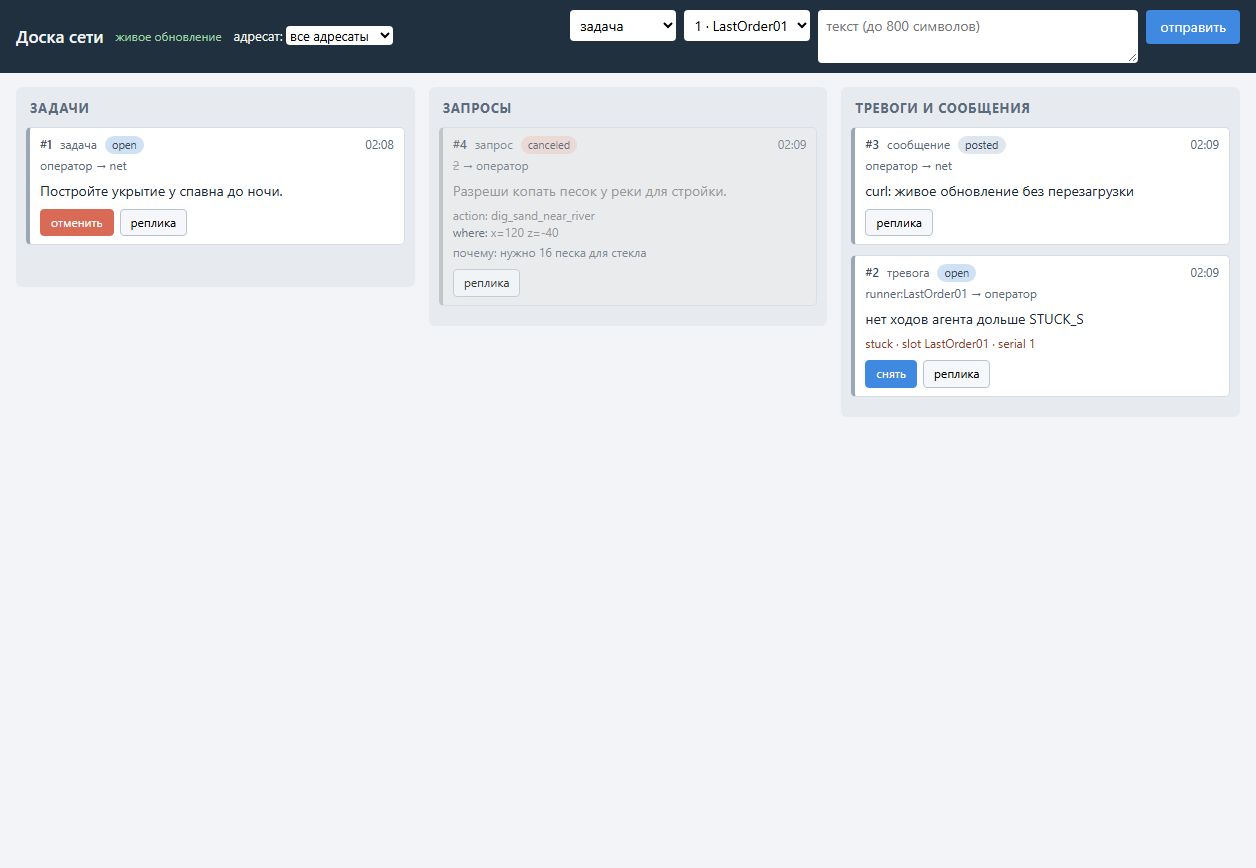
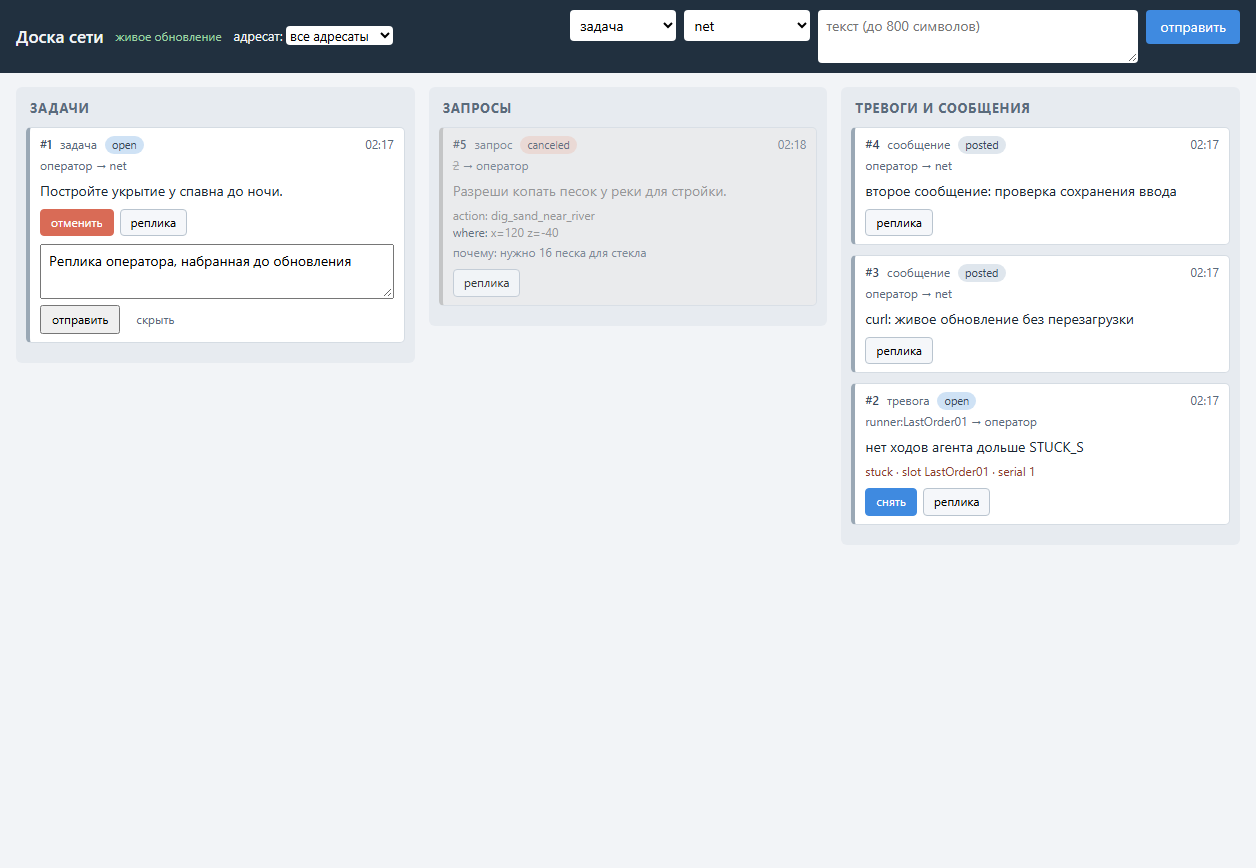
T-049: review fixes — keep operator input across refreshes, byte-wise key compare
- R1-1: buildAddressees preserves the chosen addressee across SSE/liveness
  re-renders (same pattern as the filter); the retarget-on-type race is gone.
- R1-2: render() carries open inline forms into the fresh cards — moving the
  DOM node keeps the typed text — and actionsRow adopts the carried form as
  its open one; verified on the stand (typed reply alive after two refreshes).
- R1-3: the Basic password and X-Operator-Key compare over utf-8 bytes, so a
  non-ASCII stand key answers a calm 401 instead of a 500; new test.

Agent: zcode

diff --git a/runtime/hive/static/board.js b/runtime/hive/static/board.js
@@ -148,6 +148,14 @@ function watchLiveness() {
 // --- render -----------------------------------------------------------------------------
 
 function render() {
+  // An update must not eat the operator's open inline forms: the typed deny reason,
+  // a needs_input answer, edited args. The form elements are carried into the fresh
+  // cards (moving a DOM node keeps its textarea state).
+  const openForms = new Map();
+  for (const form of document.querySelectorAll(".entry .inline-form")) {
+    const card = form.closest(".entry");
+    if (card) openForms.set(Number(card.dataset.id), form);
+  }
   buildFilter();
   buildAddressees();
   const columns = { task: [], request: [], info: [] };
@@ -157,20 +165,21 @@ function render() {
     else if (entry.kind === "request") columns.request.push(entry);
     else columns.info.push(entry);
   }
-  fillColumn("col-task", columns.task);
-  fillColumn("col-request", columns.request);
-  fillColumn("col-info", columns.info);
+  fillColumn("col-task", columns.task, openForms);
+  fillColumn("col-request", columns.request, openForms);
+  fillColumn("col-info", columns.info, openForms);
 }
 
-function fillColumn(id, entries) {
+function fillColumn(id, entries, openForms) {
   const cards = document.querySelector("#" + id + " .cards");
-  const nodes = entries.map(entryCard);
+  const nodes = entries.map((entry) => entryCard(entry, openForms));
   if (!nodes.length) nodes.push(el("div", "empty", "пусто"));
   cards.replaceChildren(...nodes);
 }
 
-function entryCard(entry) {
+function entryCard(entry, openForms) {
   const card = el("article", "entry");
+  card.dataset.id = entry.id;
   const live = liveSerials();
   // the whole card goes gray when a node it names is dead (TASKBOARD.md 12);
   // the individual name spans gray out the same way inside the route line
@@ -210,7 +219,10 @@ function entryCard(entry) {
   if (entry.thread && entry.thread.length) {
     card.append(threadBox(entry.thread));
   }
-  card.append(actionsRow(entry));
+  // the carried form (an update re-rendered the cards around the operator's typing)
+  const carried = openForms ? openForms.get(entry.id) : null;
+  card.append(actionsRow(entry, carried));
+  if (carried) card.append(carried);
   return card;
 }
 
@@ -253,9 +265,9 @@ function threadBox(thread) {
 
 // --- actions (one request each; the server decides the rights) --------------------------
 
-function actionsRow(entry) {
+function actionsRow(entry, carriedForm) {
   const row = el("div", "actions");
-  let openForm = null;
+  let openForm = carriedForm || null; // a form carried over a re-render stays open
 
   const toggle = (form) => {
     if (openForm) openForm.remove();
@@ -395,6 +407,7 @@ function buildFilter() {
 
 function buildAddressees() {
   const toSelect = document.getElementById("new-to");
+  const previous = toSelect.value; // an update while the operator types must not retarget it
   const options = [];
   if (document.getElementById("new-kind").value === "task") {
     for (const brief of state.alive) {
@@ -407,6 +420,7 @@ function buildAddressees() {
     options.push({ value: "net", label: "net" });
   }
   toSelect.replaceChildren(...options.map((o) => new Option(o.label, o.value)));
+  if (options.some((o) => o.value === previous)) toSelect.value = previous;
 }
 
 // --- init (the script tag is deferred: the DOM is ready) --------------------------------

diff --git a/tests/test_hive_board_page.py b/tests/test_hive_board_page.py
@@ -121,6 +121,36 @@ def test_basic_password_opens_the_operator_api(tmp_path: Path) -> None:
 # --- the page's own safety rules (acceptance: grep level) ---------------------------------
 
 
+def test_non_ascii_key_is_a_calm_401(tmp_path: Path) -> None:
+    """compare_digest refuses non-ASCII str (review R1-3): a stray symbol in a stand
+    password must still answer 401, never a 500."""
+    unicode_key = "пароль-стенда-Ø"
+    clock = lambda: datetime(2026, 10, 31, 12, 0, 0, tzinfo=timezone.utc)  # noqa: E731
+    home = tmp_path / "unicode"
+    app = create_app(
+        store=KnowledgeStore(home / "kb", git=False, now=lambda: clock().isoformat()),
+        rcon=FakeRcon(),
+        log=HiveLog(home / "run" / "events.jsonl"),
+        run_dir=home / "run",
+        clock=clock,
+        node_keys={"sk-node-one": "LastOrder01"},
+        lo_key="sk-last-order",
+        operator_key=unicode_key,
+        runner_keys={},
+    )
+    client = TestClient(app)
+    wrong = client.get("/board", headers=basic("operator", "неверный-Ø"))
+    assert wrong.status_code == 401  # not 500: the compare is over bytes
+    right = client.get("/board", headers=basic("operator", unicode_key))
+    assert right.status_code == 200
+    # raw header values arrive as bytes on the wire; the server side still compares
+    # over utf-8 bytes, so a non-ASCII attempt is a 401, not a TypeError/500
+    wrong_header = client.get(
+        "/board/entries", headers={"X-Operator-Key": "ключ-Ø-не-тот".encode("utf-8")}
+    )
+    assert wrong_header.status_code == 401
+
+
 def test_static_references_nothing_external() -> None:
     for path in sorted(STATIC.iterdir()):
         text = path.read_text(encoding="utf-8")

diff --git a/runtime/hive/app.py b/runtime/hive/app.py
@@ -575,7 +575,9 @@ def create_app(
 
     def _basic_password_ok(request: Request) -> bool:
         """The page's Basic-auth (TASKBOARD.md section 2): any user name, the password
-        is HIVE_OPERATOR_KEY. Constant-time compare; malformed headers just fail."""
+        is HIVE_OPERATOR_KEY. Constant-time compare over UTF-8 bytes — compare_digest
+        refuses non-ASCII str, and a stray symbol in a stand password must be a calm
+        401, never a 500."""
         scheme, _, value = request.headers.get("authorization", "").partition(" ")
         if scheme.lower() != "basic" or not value:
             return False
@@ -583,14 +585,16 @@ def create_app(
             decoded = base64.b64decode(value, validate=True).decode("utf-8", "replace")
         except ValueError:  # binascii.Error (bad base64) is a ValueError
             return False
-        return secrets.compare_digest(decoded.partition(":")[2], operator_secret)
+        return secrets.compare_digest(
+            decoded.partition(":")[2].encode("utf-8"), operator_secret.encode("utf-8")
+        )
 
     def _require_operator(request: Request) -> None:
         if not operator_secret:
             raise ApiError(401, "operator_key", "the board needs HIVE_OPERATOR_KEY configured")
         key = request.headers.get("x-operator-key", "").strip()
         if key:
-            if secrets.compare_digest(key, operator_secret):
+            if secrets.compare_digest(key.encode("utf-8"), operator_secret.encode("utf-8")):
                 return
         elif _basic_password_ok(request):
             return
